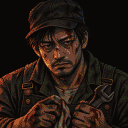
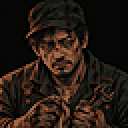
어두운 역 v3: 그래픽 상향 평준화 — 초상 64도트화, 걷기 그림 정리, 전동차·터널 전용 질감, 버려진 소지품 그림, 전투 화면 얼굴·부위 블록

diff --git a/v3/game.js b/v3/game.js
@@ -247,14 +247,18 @@
   window.addEventListener('resize', resize);
   if (window.ResizeObserver) new ResizeObserver(() => resize()).observe($('stage'));
 
-  function tileKind(t) {
+  function tileKind(t, x, y) {
     if (scene.kind === 'dungeon') {
       const A = scene.region === 'A';
-      if (t === '#') return A ? 'shutter' : 'pipe';
+      // 몇 칸씩 덩어리로 다른 질감을 섞는다 (같은 지도면 늘 같게)
+      const h = ((((x >> 2) * 73856093) ^ ((y >> 2) * 19349663) ^ (scene.key.length * 83492791)) >>> 0) % 10;
+      if (t === '#') return A ? (h < 3 && ART.has('tiles/whiteTile_0') ? 'whiteTile' : 'shutter') : (h < 4 && ART.has('tiles/brick_0') ? 'brick' : 'pipe');
       if (t === 'w') return 'water';
-      return A ? 'marketFloor' : 'drainFloor';
+      if (A) return h === 9 && ART.has('tiles/concrete_0') ? 'concrete' : h === 8 && ART.has('tiles/ash_0') ? 'ash' : 'marketFloor';
+      return h === 9 && ART.has('tiles/grate_0') ? 'grate' : h === 8 && ART.has('tiles/puddle_0') ? 'puddle' : 'drainFloor';
     }
-    if (scene.kind === 'prologue' && scene.key === 'car') return t === '#' ? 'wall' : 'concourse';
+    if (scene.kind === 'prologue' && scene.key === 'car') return t === '#' ? (ART.has('tiles/carWall_0') ? 'carWall' : 'wall') : (ART.has('tiles/carFloor_0') ? 'carFloor' : 'concourse');
+    if (scene.kind === 'prologue' && scene.key === 'tunnel' && t === '#' && ART.has('tiles/tunnelWall_0')) return 'tunnelWall';
     return { '#': 'wall', '.': 'concourse', d: 'concourse', S: 'concourse', ',': 'floor', R: 'floor', '=': 'edge', '~': 'track', i: 'track', x: 'track', T: null, w: 'water', o: 'concourse' }[t] || 'floor';
   }
   let tick = 0;
@@ -273,7 +277,7 @@
     // 바닥·벽
     for (let y = 0; y < scene.h; y++) for (let x = 0; x < scene.w; x++) {
       const t = tileAt(x, y), X = x * T, Y = y * T;
-      const k = tileKind(t);
+      const k = tileKind(t, x, y);
       if (k) ctx.drawImage(ART.tile(k, x, y), X, Y); else { ctx.fillStyle = '#000'; ctx.fillRect(X, Y, T, T); }
       if (t === 's') ctx.drawImage(ART.prop('seat'), X, Y);
       if (t === '#' && tileAt(x, y + 1) !== '#' && y + 1 < scene.h) {
@@ -468,22 +472,27 @@
   const SHOE = ['#c9bfae', '#7a2620', '#6e5a44', '#b8a27a', '#4a5866', '#a33a2a'];
   function drawLeftovers(key) {
     const L = LEFT[key]; if (!L) return;
-    for (const [x, y] of L.feet) for (const k of [0, 1]) {         // 맨발 자국: 오른쪽(앞)으로 걸어간다
-      const fx = x * T + (k ? 26 : 8) * K, fy = y * T + (k ? 10 : 20) * K;
-      ctx.fillStyle = 'rgba(200,190,170,0.45)'; ctx.fillRect(fx, fy, 7 * K, 3 * K); ctx.fillRect(fx + 8 * K, fy, 2 * K, 2 * K); ctx.fillRect(fx + 8 * K, fy + 2 * K, K, K);
-    }
-    L.shoes.forEach(([x, y], i) => {                                 // 벗겨진 신발: 테두리를 둘러 바닥에서 떠 보이게
-      const X = x * T + ((i * 13) % 22) * K, Y = y * T + ((i * 7) % 18 + 10) * K, w = (i % 3 ? 11 : 9) * K;
-      ctx.fillStyle = '#050404'; ctx.fillRect(X - K, Y - 3 * K, w + 2 * K, 9 * K);
-      ctx.fillStyle = SHOE[i % SHOE.length]; ctx.fillRect(X, Y, w, 4 * K); ctx.fillRect(X, Y - 2 * K, 5 * K, 2 * K);
-      ctx.fillStyle = 'rgba(255,245,225,0.5)'; ctx.fillRect(X, Y, w, K);
-      ctx.fillStyle = 'rgba(0,0,0,0.45)'; ctx.fillRect(X, Y + 3 * K, w, K);
+    // 맨발 자국: 발바닥·뒤꿈치·발가락. 오른쪽(앞)으로 걸어간다
+    ctx.fillStyle = 'rgba(205,195,175,0.42)';
+    const foot = (fx, fy) => {
+      ctx.beginPath(); ctx.ellipse(fx, fy, 4 * K, 2.2 * K, 0, 0, Math.PI * 2); ctx.fill();
+      ctx.beginPath(); ctx.ellipse(fx - 6 * K, fy, 2.2 * K, 1.8 * K, 0, 0, Math.PI * 2); ctx.fill();
+      for (let t = 0; t < 4; t++) ctx.fillRect(fx + 4.5 * K, fy - 2.5 * K + t * 1.5 * K, 1.4 * K, 1.2 * K);
+    };
+    for (const [x, y] of L.feet) { foot(x * T + 12 * K, y * T + 22 * K); foot(x * T + 28 * K, y * T + 13 * K); }
+    // 벗겨진 신발·가방·휴대폰 (그림이 있으면 그림, 작게)
+    const small = (id, X, Y, sc, alpha) => { const im = ART.prop(id); ctx.globalAlpha = alpha == null ? 1 : alpha; ctx.drawImage(im, X, Y, im.width * sc, im.height * sc); ctx.globalAlpha = 1; };
+    const SH = ['shoes', 'heel', 'sneaker'];
+    L.shoes.forEach(([x, y], i) => {
+      const X = x * T + ((i * 13) % 20) * K, Y = y * T + ((i * 7) % 14 + 4) * K;
+      if (ART.has('props/' + SH[i % 3])) { small(SH[i % 3], X, Y, 0.55); return; }
+      ctx.fillStyle = SHOE[i % SHOE.length]; ctx.fillRect(X, Y + 8 * K, 10 * K, 4 * K);
     });
-    L.bags.forEach(([x, y]) => ctx.drawImage(ART.prop(ART.has('props/backpack') ? 'backpack' : 'sack'), x * T, y * T));
+    L.bags.forEach(([x, y], i) => ctx.drawImage(ART.prop(i % 2 && ART.has('props/briefcase') ? 'briefcase' : ART.has('props/backpack') ? 'backpack' : 'sack'), x * T, y * T));
     L.phones.forEach(([x, y], i) => {
-      const X = x * T + 18 * K, Y = y * T + 16 * K, on = (tick >> 6) % 7 !== i;   // 가끔 꺼졌다 켜진다
-      ctx.fillStyle = '#0b0b0d'; ctx.fillRect(X, Y, 6 * K, 10 * K);
-      if (on) { ctx.fillStyle = '#9fd2e0'; ctx.fillRect(X + K, Y + K, 4 * K, 7 * K); }
+      const on = (tick >> 6) % 7 !== i;                              // 가끔 꺼졌다 켜진다
+      if (ART.has('props/phone')) { small('phone', x * T + 14 * K, y * T + 12 * K, 0.45, on ? 1 : 0.45); return; }
+      ctx.fillStyle = on ? '#9fd2e0' : '#0b0b0d'; ctx.fillRect(x * T + 18 * K, y * T + 16 * K, 6 * K, 10 * K);
     });
     if (L.shaft) {                                                   // 환기 통로: 잿빛이 새어 나온다
       const [x, y] = L.shaft;

diff --git a/v3/battle.js b/v3/battle.js
@@ -35,14 +35,16 @@
     const dmg = (m) => Math.max(1, 1 + Math.floor(m.r.skills.str / 2) + (pipe ? 1 : 0) - (m.broken.arm ? 1 : 0));
 
     function view(actor) {
-      const ep = PARTS.map((p) => `<span class="${en.hp[p] <= 0 ? 'broken' : ''}">${PNAME[p]} ${Math.max(0, en.hp[p])}/${en.max[p]}</span>`).join('');
-      const tp = team.map((m) => `<div class="person"><b>${esc(m.r.name)}</b>${m.down ? '<span class="badge bad">쓰러짐</span>' : m.guard ? '<span class="badge">방어</span>' : ''}${m === actor ? '<span class="badge good">차례</span>' : ''}<div class="parts">${PARTS.map((p) => `<span class="${m.hp[p] <= 0 ? 'broken' : ''}">${PNAME[p]} ${Math.max(0, m.hp[p])}/${m.max[p]}</span>`).join('')}</div></div>`).join('');
+      // 부위 칸: 남은 체력만큼 채운 블록 (부러지면 붉은 줄)
+      const pips = (hp, max) => PARTS.map((p) => `<span class="pp ${hp[p] <= 0 ? 'broken' : ''}"><i>${PNAME[p]}</i>${Array.from({ length: max[p] }, (_, k) => `<b class="${k < hp[p] ? 'on' : ''}"></b>`).join('')}</span>`).join('');
+      const ep = pips(en.hp, en.max);
+      const tp = team.map((m) => `<div class="bm ${m === actor ? 'turn' : ''} ${m.down ? 'down' : ''}"><img class="pf" alt="" src="${ART.portrait(m.r.id, m.r.injury).toDataURL()}"><div class="bb"><p><b>${esc(m.r.name)}</b>${m.down ? '<span class="badge bad">쓰러짐</span>' : m.guard ? '<span class="badge">방어</span>' : ''}${m === actor ? '<span class="badge good">차례</span>' : ''}</p><div class="pips">${pips(m.hp, m.max)}</div></div></div>`).join('');
       const bg = opts.region && ART.has('cg/battle_' + (opts.region === 'A' ? 'market' : 'drain')) ? `background:url(img/cg/battle_${opts.region === 'A' ? 'market' : 'drain'}.png) center/cover;image-rendering:pixelated;` : '';
       const fx = struck, fh = foeHit; struck = ''; foeHit = false;
       if (fx === 'team' || fx === 'break') { const a = document.getElementById('app'); a.classList.remove('hurt', 'hurt2'); void a.offsetWidth; a.classList.add(fx === 'break' ? 'hurt2' : 'hurt'); }
       return `<div class="battle ${fx ? 'fx-' + fx : ''}"><p class="tag">전투</p><div class="enemy" style="${bg}padding:8px 0;border:1px solid #3a342b"><span class="foe ${fh ? 'struck' : ''}">${spriteImg(opts.id, 192)}</span><p class="title">${esc(en.name)}</p></div>
-        <div class="parts">${ep}</div>
-        <p class="mini">머리나 몸통이 무너지면 쓰러진다. 다리를 부수면 반드시 도망칠 수 있고, 팔을 부수면 공격이 약해진다. 사람도 같다 — 부러진 부위는 돌아가서 부상과 영구 상처로 남는다.</p>
+        <div class="pips foe-pips">${ep}</div>
+        <p class="mini">머리·몸통이 0이면 쓰러짐 · 다리 0이면 도망 확정 · 팔 0이면 공격 −1. 사람도 같다 — 부러진 부위는 부상·상처로 남는다.</p>
         <div class="blog">${log.slice(-3).join('<br>')}</div>${tp}</div>`;
     }
 

diff --git a/v3/style.css b/v3/style.css
@@ -179,3 +179,19 @@ body { font-family: 'Noto Serif KR', 'Batang', serif; font-size: 15px; line-heig
 #dlg .opt:disabled .ic, #dlg .opt:disabled .pf { opacity: .4; filter: grayscale(.8); }
 #dlg .opt .pf { width: 36px; height: 36px; }
 #dlg .opt small .ic { width: 16px; height: 16px; }
+/* 전투: 얼굴 + 부위 블록 */
+#dlg .pips { display: grid; grid-template-columns: repeat(4, 1fr); gap: 3px 6px; font-size: 11px; }
+#dlg .pp { display: flex; align-items: center; gap: 1px; flex-wrap: wrap; }
+#dlg .pp i { font-style: normal; color: var(--dim); margin-right: 3px; }
+#dlg .pp b { width: 7px; height: 9px; background: #2a251d; border: 1px solid #3a342b; }
+#dlg .pp b.on { background: #c9b48a; border-color: #8a7d66; }
+#dlg .pp.broken i { color: var(--bad); text-decoration: line-through; }
+#dlg .pp.broken b { background: #3a1210; border-color: #6d1f1f; }
+#dlg .foe-pips { margin: 4px 0 6px; } #dlg .foe-pips .pp b.on { background: #b0503e; border-color: #6d1f1f; }
+#dlg .bm { display: flex; gap: 8px; align-items: center; padding: 5px; border: 1px solid #2c271f; margin-top: 4px; }
+#dlg .bm.turn { border-color: var(--accent); background: #211c14; }
+#dlg .bm.down { opacity: .5; filter: grayscale(.8); }
+#dlg .bm .pf { width: 44px; height: 44px; }
+#dlg .bm .bb { flex: 1; min-width: 0; } #dlg .bm .bb p { margin: 0 0 3px; font-size: 13px; }
+#dlg .bm .pips { grid-template-columns: 1fr 1fr; }
+#dlg .pp { flex-wrap: nowrap; }

diff --git a/v3/index.html b/v3/index.html
@@ -8,7 +8,7 @@
 <link rel="manifest" href="../v2/manifest.json">
 <link rel="icon" href="../icons/icon-192.png">
 <link rel="apple-touch-icon" href="../icons/icon-192.png">
-<link rel="stylesheet" href="style.css?v=12">
+<link rel="stylesheet" href="style.css?v=13">
 </head>
 <body>
 <div id="app">
@@ -29,13 +29,13 @@
     </div>
   </div>
 </div>
-<script src="../v2/data.js?v=12"></script>
-<script src="../v2/engine.js?v=12"></script>
-<script src="art3.js?v=12"></script>
-<script src="maps.js?v=12"></script>
-<script src="ui.js?v=12"></script>
-<script src="fx.js?v=12"></script>
-<script src="battle.js?v=12"></script>
-<script src="game.js?v=12"></script>
+<script src="../v2/data.js?v=13"></script>
+<script src="../v2/engine.js?v=13"></script>
+<script src="art3.js?v=13"></script>
+<script src="maps.js?v=13"></script>
+<script src="ui.js?v=13"></script>
+<script src="fx.js?v=13"></script>
+<script src="battle.js?v=13"></script>
+<script src="game.js?v=13"></script>
 </body>
 </html>

diff --git a/sw.js b/sw.js
@@ -1,6 +1,6 @@
 // 서비스 워커: 게임 파일을 보관해 두었다가 인터넷·서버가 없을 때 대신 내준다.
 // 방식: 네트워크 먼저, 안 되면 보관본. 저장 데이터(localStorage)는 다루지 않음.
-const CACHE = 'dark-station-v12';
+const CACHE = 'dark-station-v13';
 const FILES = [
   './', 'index.html', 'style.css', 'manifest.json',
   'data.js', 'engine.js', 'ui.js',

diff --git a/tools/chunky.py b/tools/chunky.py
@@ -1,0 +1,176 @@
+"""모든 게임 그림을 같은 도트 격자로: 절반 크기로 줄여 색 수를 줄이고 외곽선을 두른 뒤 2배로 키운다.
+(한 도트 = 화면 2×2. 초상·사람·소품·크리처·질감이 같은 굵기의 도트를 갖는다 — 디테일은 줄고 덩어리는 또렷해진다)
+
+python tools/chunky.py portrait 원본.png 출력.png 128          초상 (128 → 64 도트)
+python tools/chunky.py walk     원본.png 출력.png 48 72        걷기 묶음 3×4 (칸 48×72 → 24×36 도트)
+python tools/chunky.py sprites  시트.png 출력폴더 이름,.. W H   분홍 시트에서 덩어리마다
+python tools/chunky.py cg       원본.png 출력.png 480 270      장면 그림 (240×135 도트)
+"""
+import os
+import sys
+from PIL import Image, ImageEnhance, ImageFilter
+sys.path.insert(0, os.path.dirname(os.path.abspath(__file__)))
+from sheet import mask_of, components, PAL  # noqa: E402
+
+PX = 2                       # 한 도트의 화면 크기
+OUT = (8, 6, 6)              # 외곽선 색 (가장 어두운 잉크)
+
+
+def palette_img():
+    pal = Image.new('P', (1, 1))
+    flat = [c for rgb in PAL for c in rgb]
+    pal.putpalette(flat + [0] * (768 - len(flat)))
+    return pal
+
+
+PAL_IMG = palette_img()
+
+
+def tone(im, contrast=1.12, color=0.92, sharp=True, bright=1.0):
+    """색 수를 줄이기 전에: 대비는 조금 올리고 채도는 조금 내린다 (게임 전체의 칙칙한 톤)."""
+    rgb = im.convert('RGB')
+    if bright != 1.0:
+        rgb = ImageEnhance.Brightness(rgb).enhance(bright)
+    rgb = ImageEnhance.Contrast(rgb).enhance(contrast)
+    rgb = ImageEnhance.Color(rgb).enhance(color)
+    if sharp:
+        rgb = rgb.filter(ImageFilter.UnsharpMask(radius=1, percent=60, threshold=2))
+    return rgb
+
+
+def reduce_colors(rgb, n, pal=True):
+    """그림마다 n색으로 먼저 줄이고(뭉개진 잡색 제거) 게임 팔레트에 맞춘다. pal=False면 그림 고유의 n색 (피부색이 틀어지지 않게)."""
+    few = rgb.quantize(colors=n, method=Image.Quantize.MEDIANCUT, dither=Image.Dither.NONE).convert('RGB')
+    return few.quantize(palette=PAL_IMG, dither=Image.Dither.NONE).convert('RGB') if pal else few
+
+
+def outline(im):
+    w, h = im.size
+    px = im.load()
+    out = im.copy()
+    op = out.load()
+    for y in range(h):
+        for x in range(w):
+            if px[x, y][3]:
+                continue
+            for dx, dy in ((1, 0), (-1, 0), (0, 1), (0, -1)):
+                nx, ny = x + dx, y + dy
+                if 0 <= nx < w and 0 <= ny < h and px[nx, ny][3]:
+                    op[x, y] = OUT + (255,)
+                    break
+    return out
+
+
+def up(im):
+    return im.resize((im.width * PX, im.height * PX), Image.NEAREST)
+
+
+def chunk_rgba(im, n=24, line=True, pal=True, **kw):
+    """투명 배경 그림(이미 도트 크기) → 색 줄이기 + 외곽선."""
+    a = im.getchannel('A').point(lambda v: 255 if v > 120 else 0)
+    rgb = reduce_colors(tone(im, **kw), n, pal)
+    rgb.putalpha(a)
+    return outline(rgb) if line else rgb
+
+
+def fit_box(crop, W, H, bottom=True, pad=1):
+    cw, ch = crop.size
+    s = min((W - 2 * pad) / cw, (H - 2 * pad) / ch)
+    nw, nh = max(1, round(cw * s)), max(1, round(ch * s))
+    small = crop.resize((nw, nh), Image.LANCZOS)
+    c = Image.new('RGBA', (W, H), (0, 0, 0, 0))
+    c.paste(small, ((W - nw) // 2, (H - pad - nh) if bottom else (H - nh) // 2), small)
+    return c
+
+
+# ── 초상: 정사각형으로 잘라 64도트, 28색 ──
+def portrait(src, dst, size=128):
+    im = Image.open(src).convert('RGB')
+    w, h = im.size
+    s = min(w, h)
+    im = im.crop(((w - s) // 2, (h - s) // 2, (w - s) // 2 + s, (h - s) // 2 + s))
+    d = size // PX
+    small = tone(im.resize((d, d), Image.LANCZOS), contrast=1.15, color=0.9)
+    up(reduce_colors(small, 32, pal=False)).save(dst)
+
+
+# ── 장면 그림: 240×135 도트, 40색 ──
+def cg(src, dst, W=480, H=270):
+    im = Image.open(src).convert('RGB')
+    w, h = im.size
+    if w / h > W / H:
+        cw, ch = round(h * W / H), h
+    else:
+        cw, ch = w, round(w * H / W)
+    im = im.crop(((w - cw) // 2, (h - ch) // 2, (w - cw) // 2 + cw, (h - ch) // 2 + ch))
+    small = tone(im.resize((W // PX, H // PX), Image.LANCZOS), contrast=1.08, color=0.95, sharp=False)
+    up(reduce_colors(small, 48, pal=False)).save(dst)
+
+
+# ── 분홍 시트 → 덩어리마다 (사람·크리처·소품·상징) ──
+def sprites(src, outdir, names, W, H, n=20, bottom=True, min_area=2000):
+    im = Image.open(src).convert('RGBA')
+    m = mask_of(im)
+    im.putalpha(m)
+    boxes = components(m, min_area)
+    os.makedirs(outdir, exist_ok=True)
+    for name, b in zip(names, boxes):
+        cell = fit_box(im.crop(b), W // PX, H // PX, bottom)
+        up(chunk_rgba(cell, n)).save(os.path.join(outdir, name + '.png'))
+    if len(boxes) != len(names):
+        print('주의: 덩어리', len(boxes), '이름', len(names))
+    return len(boxes)
+
+
+# ── 걷기 묶음: 3열×4행. 칸마다 가장 큰 덩어리만(옆 칸에서 넘어온 머리 조각 제거) ──
+def cell_box(m, cell):
+    sub = m.crop(cell)
+    bs = components(sub, 300)
+    if not bs:
+        return None
+    big = max(bs, key=lambda b: (b[2] - b[0]) * (b[3] - b[1]))
+    keep = [b for b in bs if b is big or ((b[2] - b[0]) * (b[3] - b[1]) > 0.04 * (big[2] - big[0]) * (big[3] - big[1])
+                                          and b[1] > 2 and b[3] < sub.height - 2)]
+    return [cell[0] + min(b[0] for b in keep), cell[1] + min(b[1] for b in keep), cell[0] + max(b[2] for b in keep), cell[1] + max(b[3] for b in keep)]
+
+
+def walk(src, dst, W=48, H=72, n=22, px=1):
+    im = Image.open(src).convert('RGBA')
+    m = mask_of(im)
+    w0, h0 = im.size
+    boxes = []
+    for r in range(4):
+        for c in range(3):
+            cell = (c * w0 // 3, r * h0 // 4, (c + 1) * w0 // 3, (r + 1) * h0 // 4)
+            boxes.append(cell_box(m, cell) or list(cell))
+    # 칸 밖 덩어리를 지운 마스크로 다시 (칸 경계에 걸친 조각 제거)
+    keep = Image.new('L', m.size, 0)
+    for b in boxes:
+        keep.paste(m.crop(b), (b[0], b[1]))
+    im.putalpha(keep)
+    w, h = W // px, H // px
+    hmax = max(b[3] - b[1] for b in boxes)
+    wmax = max(b[2] - b[0] for b in boxes)
+    s = min((h - 2) / hmax, (w - 2) / wmax)
+    atlas = Image.new('RGBA', (w * 3, h * 4), (0, 0, 0, 0))
+    for i, b in enumerate(boxes):
+        crop = im.crop(b)
+        nw, nh = max(1, round(crop.width * s)), max(1, round(crop.height * s))
+        small = crop.resize((nw, nh), Image.LANCZOS)
+        cell = Image.new('RGBA', (w, h), (0, 0, 0, 0))
+        cell.paste(small, ((w - nw) // 2, h - 1 - nh), small)
+        atlas.paste(chunk_rgba(cell, 40, pal=False, contrast=1.12, color=1.0, bright=1.08, sharp=False), ((i % 3) * w, (i // 3) * h))
+    (atlas.resize((atlas.width * px, atlas.height * px), Image.NEAREST) if px > 1 else atlas).save(dst)
+
+
+if __name__ == '__main__':
+    mode, a = sys.argv[1], sys.argv[2:]
+    if mode == 'portrait':
+        portrait(a[0], a[1], int(a[2]) if len(a) > 2 else 128)
+    elif mode == 'cg':
+        cg(a[0], a[1], int(a[2]), int(a[3]))
+    elif mode == 'walk':
+        walk(a[0], a[1], int(a[2]), int(a[3]))
+    elif mode == 'sprites':
+        extra = a[5:]
+        print('덩어리', sprites(a[0], a[1], a[2].split(','), int(a[3]), int(a[4]), bottom='--center' not in extra))

diff --git a/docs/handoff_2026-10-19.md b/docs/handoff_2026-10-19.md
@@ -70,3 +70,10 @@
 - 아이콘 30개: `art_src/icons/sheet1·2.png` → `python tools/icons.py 시트 이름들`(5×3 고정 칸, 40px) → `v3/img/icons/`. game.js `ic(이름)`(없으면 글자), tend→meds·farm→food 대용.
 - UI: 머리말 아이콘+숫자(누르면 아이콘 뜻), 메뉴 3×2 타일(`UI.open(.., {grid:true})`, 선택지 `icon`), 사람 카드(얼굴·스트레스 막대·기술 아이콘·오늘 일), 게시판 얼굴 칩·목표 배지·내일 예상 아이콘 변화, 일 선택·원정 준비에 아이콘/얼굴, 결과 줄 '식량 +3' → 아이콘.
 - 확인: 새 판 프롤로그→결말 자동 완주 콘솔 오류 0, 테스트 51 통과, 봇 결말 통계 이전과 비슷.
+
+## 그래픽 상향 평준화 (2026-10-20 밤)
+- 점검: 초상은 지나치게 세밀(회화풍), 걷기 그림은 작고 뭉개지고 옆 칸 머리 조각이 섞임, 소품·상징은 중간, 크리처 2종 흐릿.
+- `tools/chunky.py`: 초상은 64도트로 줄여 그림 고유 32색 → 2배(덜 세밀, 피부색 보존). 걷기는 칸마다 큰 덩어리만 남겨(옆 칸 조각 제거) 40색·조금 밝게(1배 유지 — 2배 도트는 얼굴이 사라져서 버림). 장면 그림은 그대로(이미 좋음, 도트화하면 흐려짐). build_art.sh 반영.
+- 새 Codex: `sheets/props2.png`(무전기·구급함·이벤트 표시 !·구두·하이힐·운동화·휴대폰·서류 가방) → 코드 도형 대신 그림. `sheets/tiles2.png`(전동차 바닥·창문 벽·터널 벽·자갈·물웅덩이·콘크리트·격자·흰 타일·벽돌·재) → 전동차·터널 전용 질감, 원정 지도는 4칸 덩어리로 질감 섞음.
+- 전투 화면: 부위 글자 → 얼굴 + 블록 칸(부러지면 붉게), 차례인 사람 강조.
+- 맨발 자국은 발바닥·뒤꿈치·발가락 모양.
